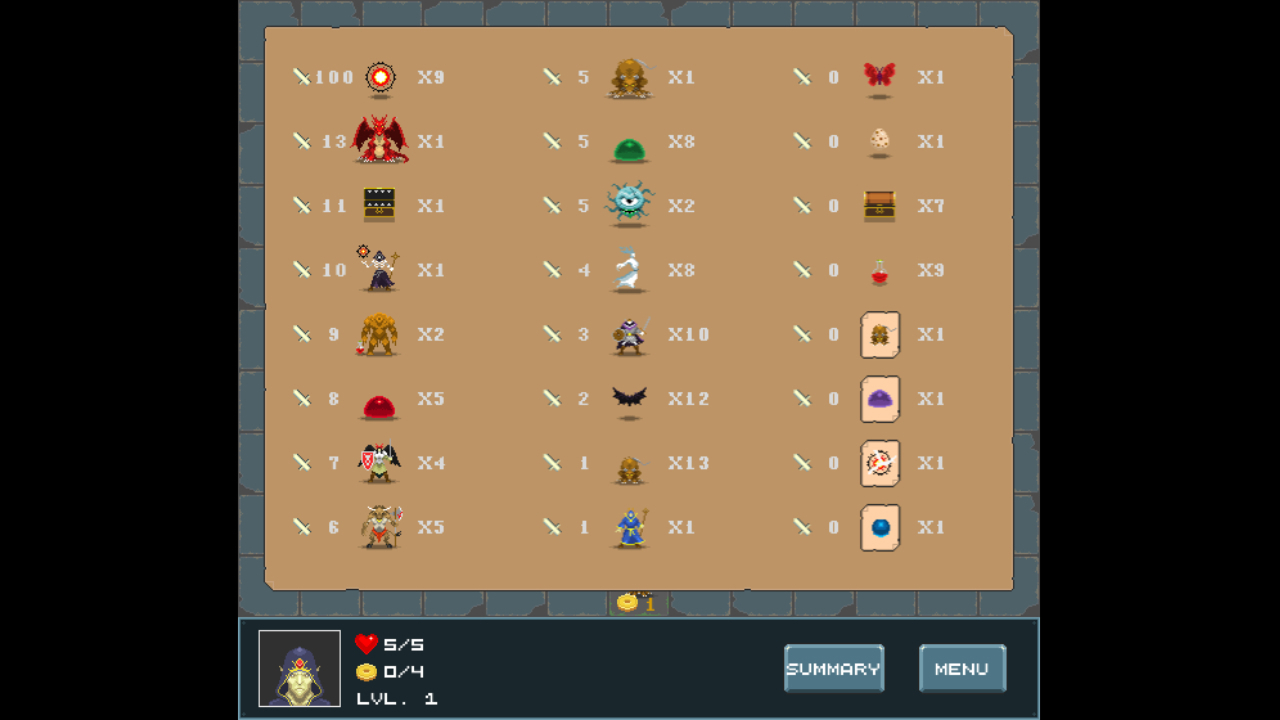
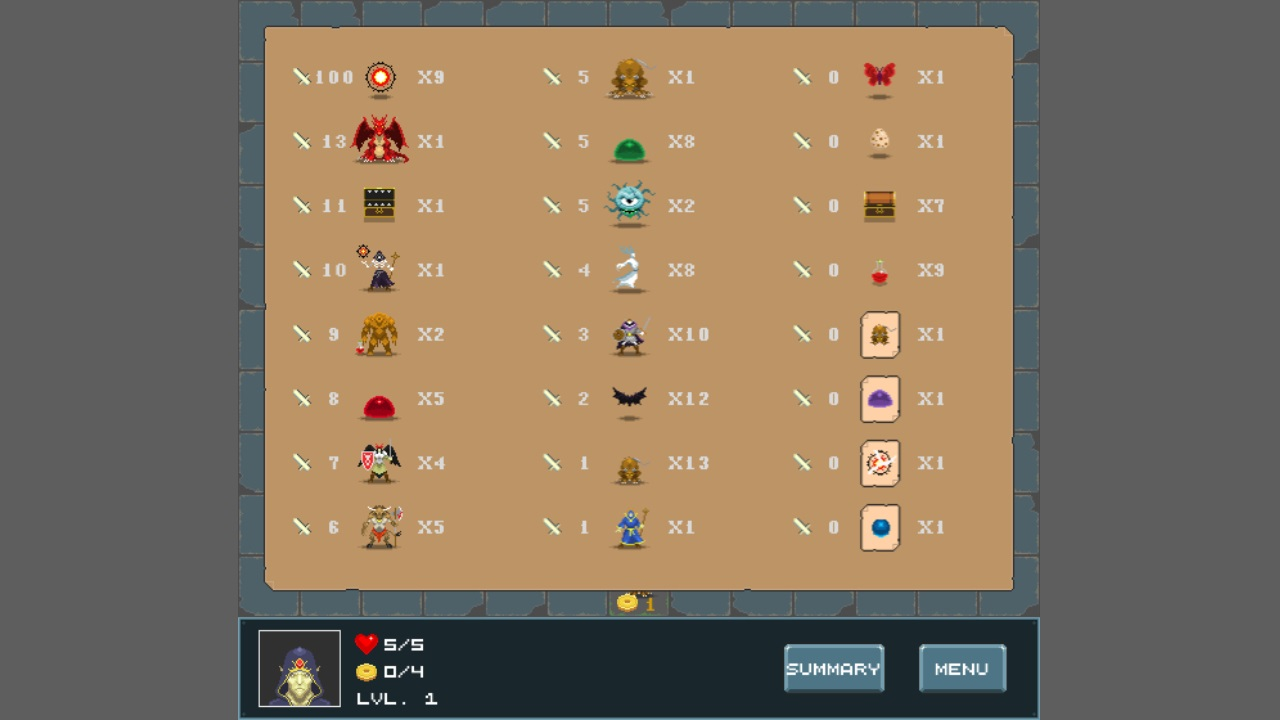
update

diff --git a/src/game/scenes/Game.js b/src/game/scenes/Game.js
@@ -152,33 +152,6 @@ export class Game extends Phaser.Scene {
 
     // Запускаем UI сцену
     this.scene.launch(SCENE_KEYS.UI);
-
-    if (dataManager.gameStartCount % 5 === 0 && window.ysdk?.adv) {
-      if (window.ysdk?.features?.GameplayAPI) {
-        window.ysdk.features.GameplayAPI.stop();
-      }
-      audioManager.pauseMusic(); // Ставим музыку на паузу перед рекламой
-      window.ysdk.adv.showFullscreenAdv({
-        callbacks: {
-          onClose: () => {
-            if (window.ysdk?.features?.GameplayAPI) {
-              window.ysdk.features.GameplayAPI.start();
-            }
-            if (audioManager.settings.musicEnabled && audioManager.music && audioManager.music.isPaused) {
-              audioManager.resumeMusic(); // Возобновляем музыку после рекламы
-            }
-          },
-          onError: () => {
-            if (window.ysdk?.features?.GameplayAPI) {
-              window.ysdk.features.GameplayAPI.start();
-            }
-            if (audioManager.settings.musicEnabled && audioManager.music && audioManager.music.isPaused) {
-              audioManager.resumeMusic(); // Возобновляем музыку после ошибки рекламы
-            }
-          }
-        }
-      });
-    }
   }
 
   /**
@@ -230,7 +203,7 @@ export class Game extends Phaser.Scene {
   handleReviveClick() {
     if (!window.ysdk?.adv?.showRewardedVideo) {
       // Для локальной разработки просто восстанавливаем здоровье
-      dataManager.player.heal();
+      dataManager.player.revive();
       dataManager.setStatus(StatusEvents.PLAYING);
       this.hideReviveOrSurrenderUI();
       dataManager.reviveUsed = true;
@@ -241,7 +214,7 @@ export class Game extends Phaser.Scene {
       callbacks: {
         onOpen: () => {},
         onRewarded: () => {
-          dataManager.player.heal();
+          dataManager.player.revive();
           dataManager.setStatus(StatusEvents.PLAYING);
           this.hideReviveOrSurrenderUI();
           dataManager.reviveUsed = true;

diff --git a/index.html b/index.html
@@ -7,8 +7,7 @@
     <link rel="stylesheet" href="/style.css">
     <title>Castle Sweeper</title>
     <!-- Yandex Games SDK -->
-    <!-- <script src="/sdk.js"></script> -->
-    <script src="https://sdk.games.s3.yandex.net/sdk.js"></script>
+    <script src="/sdk.js"></script>
     <script>
       document.addEventListener('contextmenu', function(e) {
         e.preventDefault();

diff --git a/src/game/entities/Player.js b/src/game/entities/Player.js
@@ -93,4 +93,13 @@ export class Player {
 
     return this.hp < 0;
   }
+
+  revive() {
+    const prevHP = this.hp;
+    this.hp = this.maxHP;
+    sceneEvents.emit(PlayerEvents.HP_CHANGED, {
+      previous: prevHP,
+      current: this.hp
+    });
+  }
 }

diff --git a/public/style.css b/public/style.css
@@ -2,7 +2,7 @@ body {
     margin: 0;
     padding: 0;
     color: rgba(255, 255, 255, 0.87);
-    background-color: #000000;
+    background-color: #000;
 }
 
 #app {
